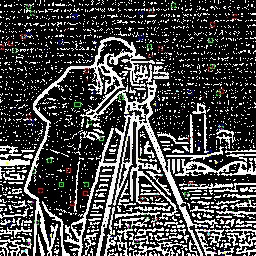
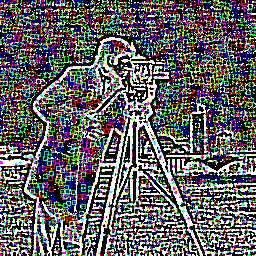
.

diff --git a/lissage.py b/lissage.py
@@ -21,7 +21,7 @@ print(image.shape)
 # Generate Gaussian noise
 #img_gauss = gaussian_noise(image)
 
-gauss = np.random.normal(0, 0.3, image.size)
+gauss = np.random.normal(0, 0.5, image.size)
 gauss = gauss.reshape(image.shape[0],image.shape[1],image.shape[2]).astype('uint8')
 
 # Add the Gaussian noise to the image
@@ -39,11 +39,12 @@ img_mask = cv.filter2D(img_gauss, -1, (MASK / 81))
 cv.imwrite('new_pictures/img_mask.jpeg', img_mask)
 
 Hori = np.concatenate((image, img_gauss, img_smooth, img_mask), axis=1)
-cv.imshow('Originale, Bruitee, Lissage et Lissage masque', Hori)
 
 diff = img_mask - img_smooth
 cv.imwrite('new_pictures/difference.jpeg', diff)
 
 cv.imshow('Difference des filtres', diff)
+cv.imshow('Originale, Bruitee, Lissage et Lissage masque', Hori)
+
 cv.waitKey(0)
 #cv.destroyAllWindows()
